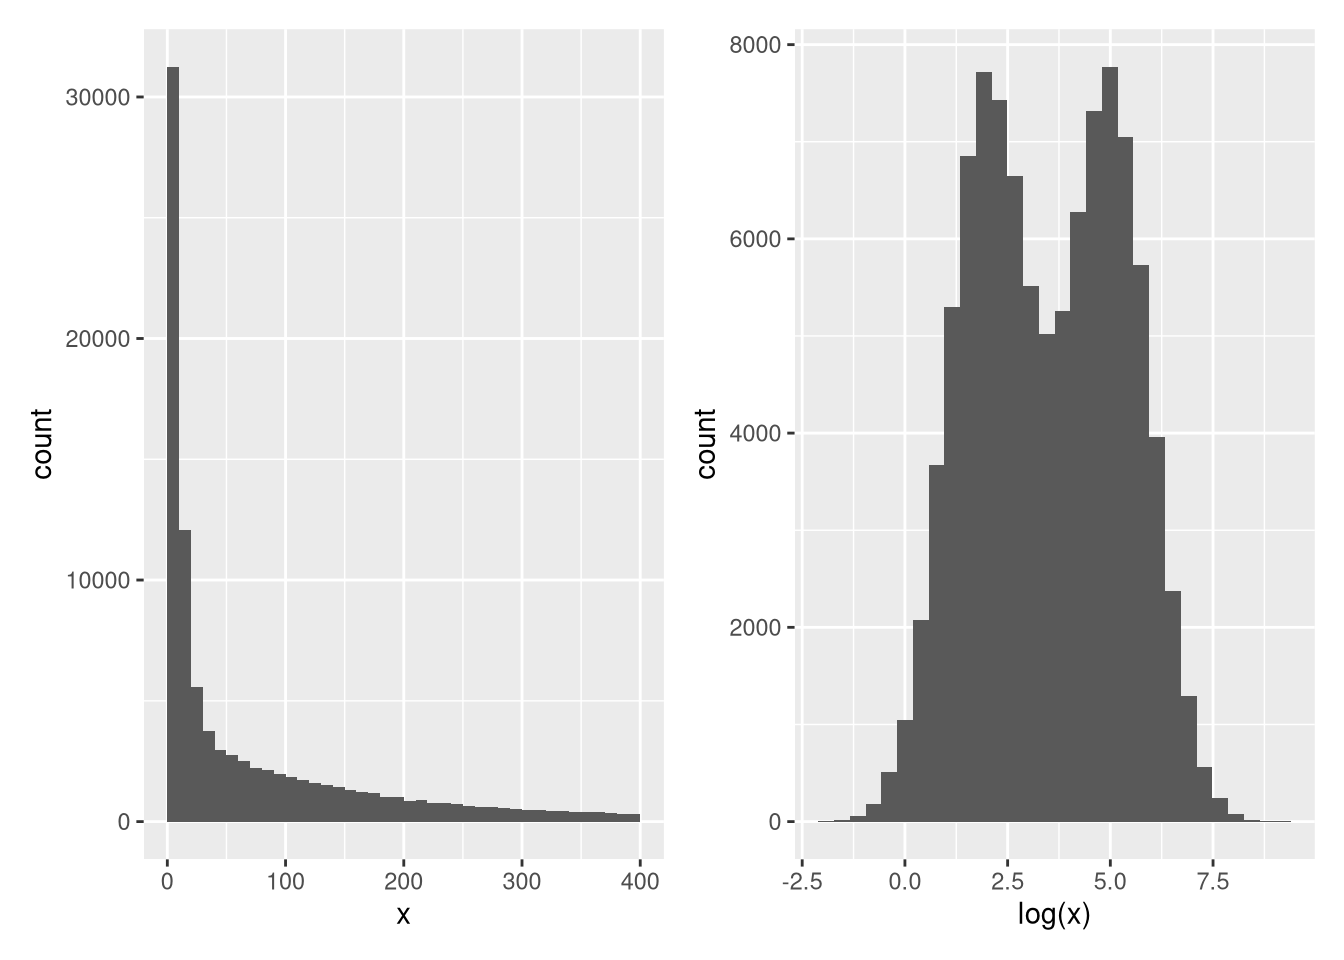
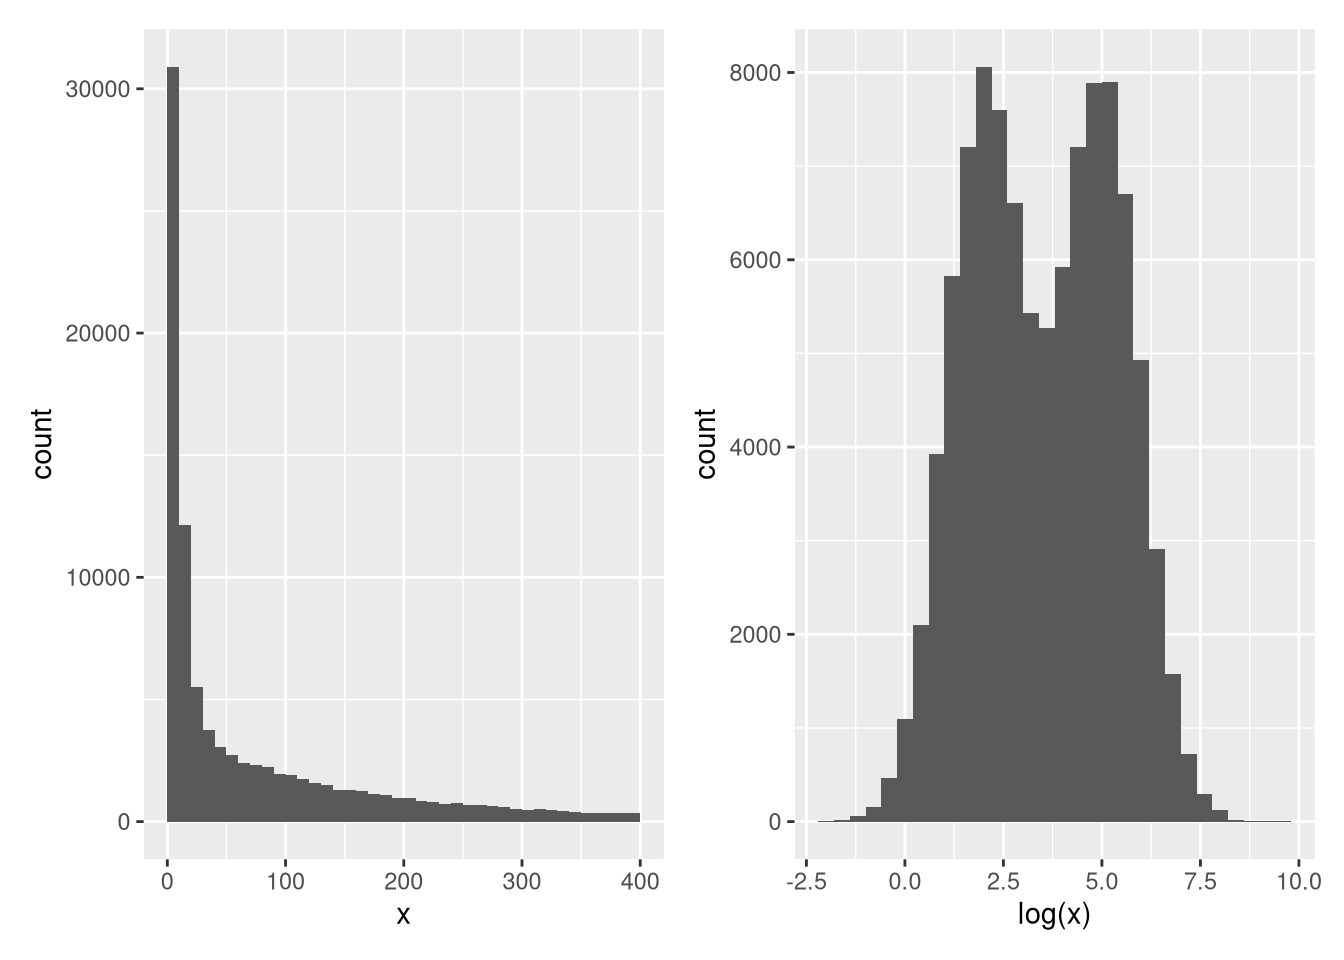
link to latest vignette de cours

diff --git a/docs/sec-vis.html b/docs/sec-vis.html
@@ -14,7 +14,7 @@
 
 <meta name="author" content="Laurent Gatto" />
 
-<meta name="date" content="2021-10-18" />
+<meta name="date" content="2021-10-21" />
 
 <script type="text/x-mathjax-config">
 MathJax.Hub.Config({
@@ -920,7 +920,7 @@ of the data.</p>
 <span id="cb37-9"><a href="sec-vis.html#cb37-9" aria-hidden="true" tabindex="-1"></a>p2 <span class="ot">&lt;-</span>  <span class="fu">ggplot</span>(sim, <span class="fu">aes</span>(<span class="fu">log</span>(x))) <span class="sc">+</span></span>
 <span id="cb37-10"><a href="sec-vis.html#cb37-10" aria-hidden="true" tabindex="-1"></a>    <span class="fu">geom_histogram</span>(<span class="at">bins =</span> <span class="dv">30</span>)</span>
 <span id="cb37-11"><a href="sec-vis.html#cb37-11" aria-hidden="true" tabindex="-1"></a>p1 <span class="sc">+</span> p2</span></code></pre></div>
-<pre><code>## Warning: Removed 7991 rows containing non-finite values (stat_bin).</code></pre>
+<pre><code>## Warning: Removed 8006 rows containing non-finite values (stat_bin).</code></pre>
 <div class="figure">
 <span style="display:block;" id="fig:sim"></span>
 <p class="caption marginnote shownote">
@@ -1166,7 +1166,7 @@ otherwise. Below are some example outputs.</p>
 <a href="sec-obj.html"><button class="btn btn-default">Next</button></a>
 </p>
 <p class="build-date">Page built: 
-2021-10-18
+2021-10-21
  using 
 R version 4.1.0 (2021-05-18)
 </p>

diff --git a/docs/index.html b/docs/index.html
@@ -14,7 +14,7 @@
 
 <meta name="author" content="Laurent Gatto" />
 
-<meta name="date" content="2021-10-18" />
+<meta name="date" content="2021-10-21" />
 
 <script type="text/x-mathjax-config">
 MathJax.Hub.Config({
@@ -209,7 +209,7 @@ div.csl-indent {
 <!DOCTYPE html PUBLIC "-//W3C//DTD HTML 4.0 Transitional//EN" "http://www.w3.org/TR/REC-html40/loose.dtd">
 <!--bookdown:title:end--><!--bookdown:title:start--><html><body><div id="preamble" class="section level1 unnumbered">
 <h1>Preamble</h1>
-<p>The <a href="https://uclouvain.be/cours-2019-wsbim1322.html">WSBIM1322</a> course
+<p>The <a href="https://uclouvain.be/cours-2021-wsbim1322.html">WSBIM1322</a> course
 is teaches the basics of statistical data analysis applied to high
 throughput biology. It is aimed at biology and biomedical students
 that are already familiar with the R langauge (see the pre-requisits
@@ -340,7 +340,7 @@ style</a> <span class="citation">(<label for="tufte-mn-10" class="margin-toggle"
 <a href="sec-refresher.html"><button class="btn btn-default">Next</button></a>
 </p>
 <p class="build-date">Page built: 
-2021-10-18
+2021-10-21
  using 
 R version 4.1.0 (2021-05-18)
 </p>

diff --git a/docs/sec-sl.html b/docs/sec-sl.html
@@ -14,7 +14,7 @@
 
 <meta name="author" content="Laurent Gatto" />
 
-<meta name="date" content="2021-10-18" />
+<meta name="date" content="2021-10-21" />
 
 <script type="text/x-mathjax-config">
 MathJax.Hub.Config({
@@ -1054,7 +1054,7 @@ most reliable assignments one, and setting the unreliable ones to
 <a href="sec-biovis.html"><button class="btn btn-default">Next</button></a>
 </p>
 <p class="build-date">Page built: 
-2021-10-18
+2021-10-21
  using 
 R version 4.1.0 (2021-05-18)
 </p>

diff --git a/docs/sec-biovis.html b/docs/sec-biovis.html
@@ -14,7 +14,7 @@
 
 <meta name="author" content="Laurent Gatto" />
 
-<meta name="date" content="2021-10-18" />
+<meta name="date" content="2021-10-21" />
 
 <script type="text/x-mathjax-config">
 MathJax.Hub.Config({
@@ -487,7 +487,7 @@ number of intersectios (default is 40) become useful.</p>
 <a href="sec-ccl.html"><button class="btn btn-default">Next</button></a>
 </p>
 <p class="build-date">Page built: 
-2021-10-18
+2021-10-21
  using 
 R version 4.1.0 (2021-05-18)
 </p>

diff --git a/docs/sec-mlintro.html b/docs/sec-mlintro.html
@@ -14,7 +14,7 @@
 
 <meta name="author" content="Laurent Gatto" />
 
-<meta name="date" content="2021-10-18" />
+<meta name="date" content="2021-10-21" />
 
 <script type="text/x-mathjax-config">
 MathJax.Hub.Config({
@@ -762,7 +762,7 @@ but these are beyond the scope of this course.</p>
 <a href="sec-testing.html"><button class="btn btn-default">Next</button></a>
 </p>
 <p class="build-date">Page built: 
-2021-10-18
+2021-10-21
  using 
 R version 4.1.0 (2021-05-18)
 </p>

diff --git a/docs/sec-obj.html b/docs/sec-obj.html
@@ -14,7 +14,7 @@
 
 <meta name="author" content="Laurent Gatto" />
 
-<meta name="date" content="2021-10-18" />
+<meta name="date" content="2021-10-21" />
 
 <script type="text/x-mathjax-config">
 MathJax.Hub.Config({
@@ -995,7 +995,7 @@ of class <code>SummarizedExperiment</code>.</p>
 <a href="sec-biostrings.html"><button class="btn btn-default">Next</button></a>
 </p>
 <p class="build-date">Page built: 
-2021-10-18
+2021-10-21
  using 
 R version 4.1.0 (2021-05-18)
 </p>

diff --git a/docs/sec-ul.html b/docs/sec-ul.html
@@ -14,7 +14,7 @@
 
 <meta name="author" content="Laurent Gatto" />
 
-<meta name="date" content="2021-10-18" />
+<meta name="date" content="2021-10-21" />
 
 <script type="text/x-mathjax-config">
 MathJax.Hub.Config({
@@ -996,7 +996,7 @@ average marker profiles, such as shown below.</p></li>
 <a href="sec-sl.html"><button class="btn btn-default">Next</button></a>
 </p>
 <p class="build-date">Page built: 
-2021-10-18
+2021-10-21
  using 
 R version 4.1.0 (2021-05-18)
 </p>

diff --git a/docs/sec-norm.html b/docs/sec-norm.html
@@ -14,7 +14,7 @@
 
 <meta name="author" content="Laurent Gatto" />
 
-<meta name="date" content="2021-10-18" />
+<meta name="date" content="2021-10-21" />
 
 <script type="text/x-mathjax-config">
 MathJax.Hub.Config({
@@ -749,7 +749,7 @@ implications for the normalisation step?</p>
 <a href="sec-mlintro.html"><button class="btn btn-default">Next</button></a>
 </p>
 <p class="build-date">Page built: 
-2021-10-18
+2021-10-21
  using 
 R version 4.1.0 (2021-05-18)
 </p>

diff --git a/docs/sec-refresher.html b/docs/sec-refresher.html
@@ -14,7 +14,7 @@
 
 <meta name="author" content="Laurent Gatto" />
 
-<meta name="date" content="2021-10-18" />
+<meta name="date" content="2021-10-21" />
 
 <script type="text/x-mathjax-config">
 MathJax.Hub.Config({
@@ -373,7 +373,7 @@ state it explicitly in your response.</p>
 <a href="sec-vis.html"><button class="btn btn-default">Next</button></a>
 </p>
 <p class="build-date">Page built: 
-2021-10-18
+2021-10-21
  using 
 R version 4.1.0 (2021-05-18)
 </p>

diff --git a/docs/sec-si.html b/docs/sec-si.html
@@ -14,7 +14,7 @@
 
 <meta name="author" content="Laurent Gatto" />
 
-<meta name="date" content="2021-10-18" />
+<meta name="date" content="2021-10-21" />
 
 <script type="text/x-mathjax-config">
 MathJax.Hub.Config({
@@ -322,7 +322,7 @@ the following code:</p>
 <a href="sec-ccl.html"><button class="btn btn-default">Previous</button></a>
 </p>
 <p class="build-date">Page built: 
-2021-10-18
+2021-10-21
  using 
 R version 4.1.0 (2021-05-18)
 </p>

diff --git a/docs/sec-testing.html b/docs/sec-testing.html
@@ -14,7 +14,7 @@
 
 <meta name="author" content="Laurent Gatto" />
 
-<meta name="date" content="2021-10-18" />
+<meta name="date" content="2021-10-21" />
 
 <script type="text/x-mathjax-config">
 MathJax.Hub.Config({
@@ -1129,7 +1129,7 @@ conclusion now?</li>
 <a href="sec-dimred.html"><button class="btn btn-default">Next</button></a>
 </p>
 <p class="build-date">Page built: 
-2021-10-18
+2021-10-21
  using 
 R version 4.1.0 (2021-05-18)
 </p>

diff --git a/docs/404.html b/docs/404.html
@@ -14,7 +14,7 @@
 
 <meta name="author" content="Laurent Gatto" />
 
-<meta name="date" content="2021-10-18" />
+<meta name="date" content="2021-10-21" />
 
 <script type="text/x-mathjax-config">
 MathJax.Hub.Config({
@@ -209,7 +209,7 @@ the table of contents to find the page you are looking for.</p>
 <p style="text-align: center;">
 </p>
 <p class="build-date">Page built: 
-2021-10-18
+2021-10-21
  using 
 R version 4.1.0 (2021-05-18)
 </p>
